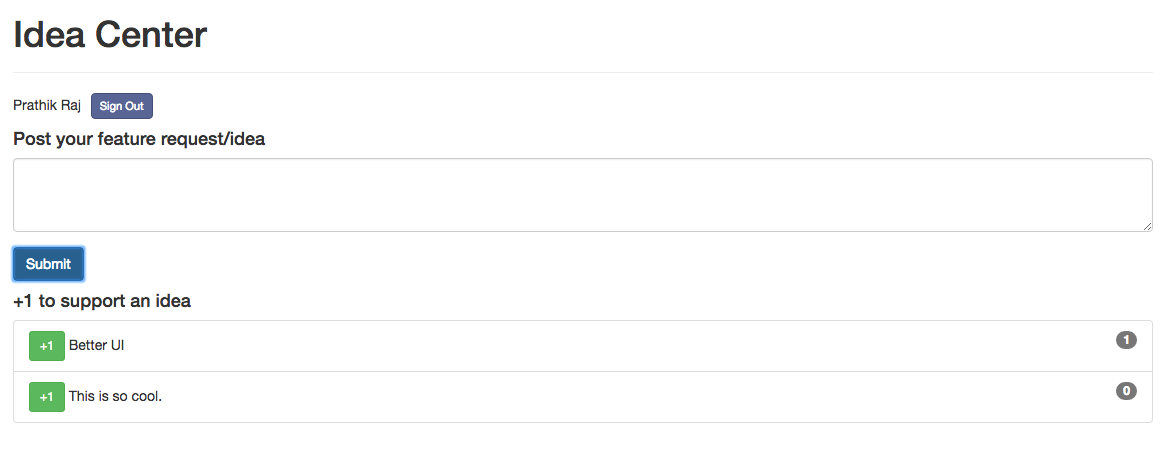
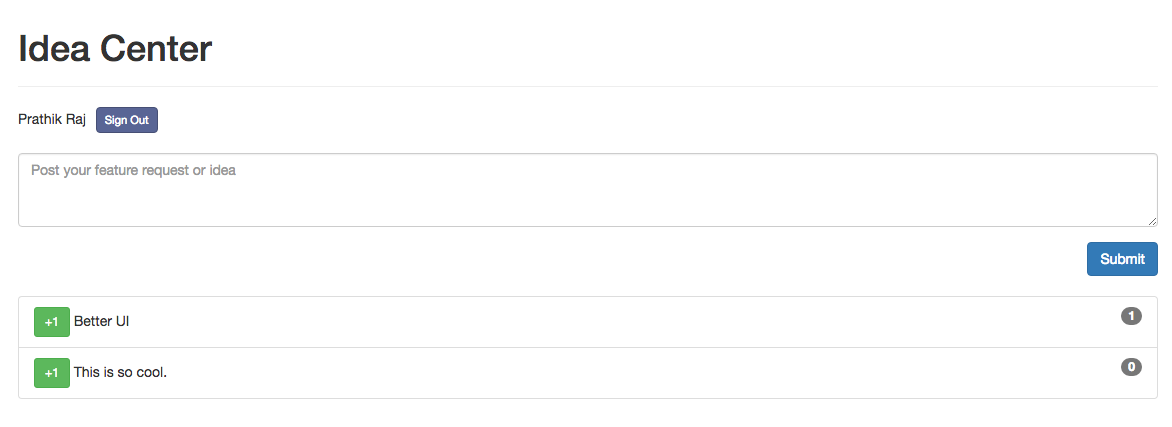
Leaner UI

diff --git a/imports/ui/body.html b/imports/ui/body.html
@@ -7,19 +7,19 @@
         {{#if currentUser}}
         <div class="row">
             <div class="col-lg-12">
-                <h4>Post your feature request/idea</h4>
+                <br />
                 <form class="new-task">
                     <div class="form-group">
-                        <textarea rows="3" class="form-control" id="requestText" name="text"></textarea>
+                        <textarea placeholder="Post your feature request or idea" 
+                            rows="3" class="form-control" id="requestText" name="text"></textarea>
                     </div>
-                    <input type="submit" class="btn btn-primary"/>
+                    <input type="submit" class="btn btn-primary pull-right"/>
                 </form>
             </div>
         </div>
         <div class="row">
             <div class="col-lg-12">
-                <h4>+1 to support an idea</h4>
-
+                <br/>
                 <ul class="list-group">
                     {{#each tasks}}
                     {{> task}}
